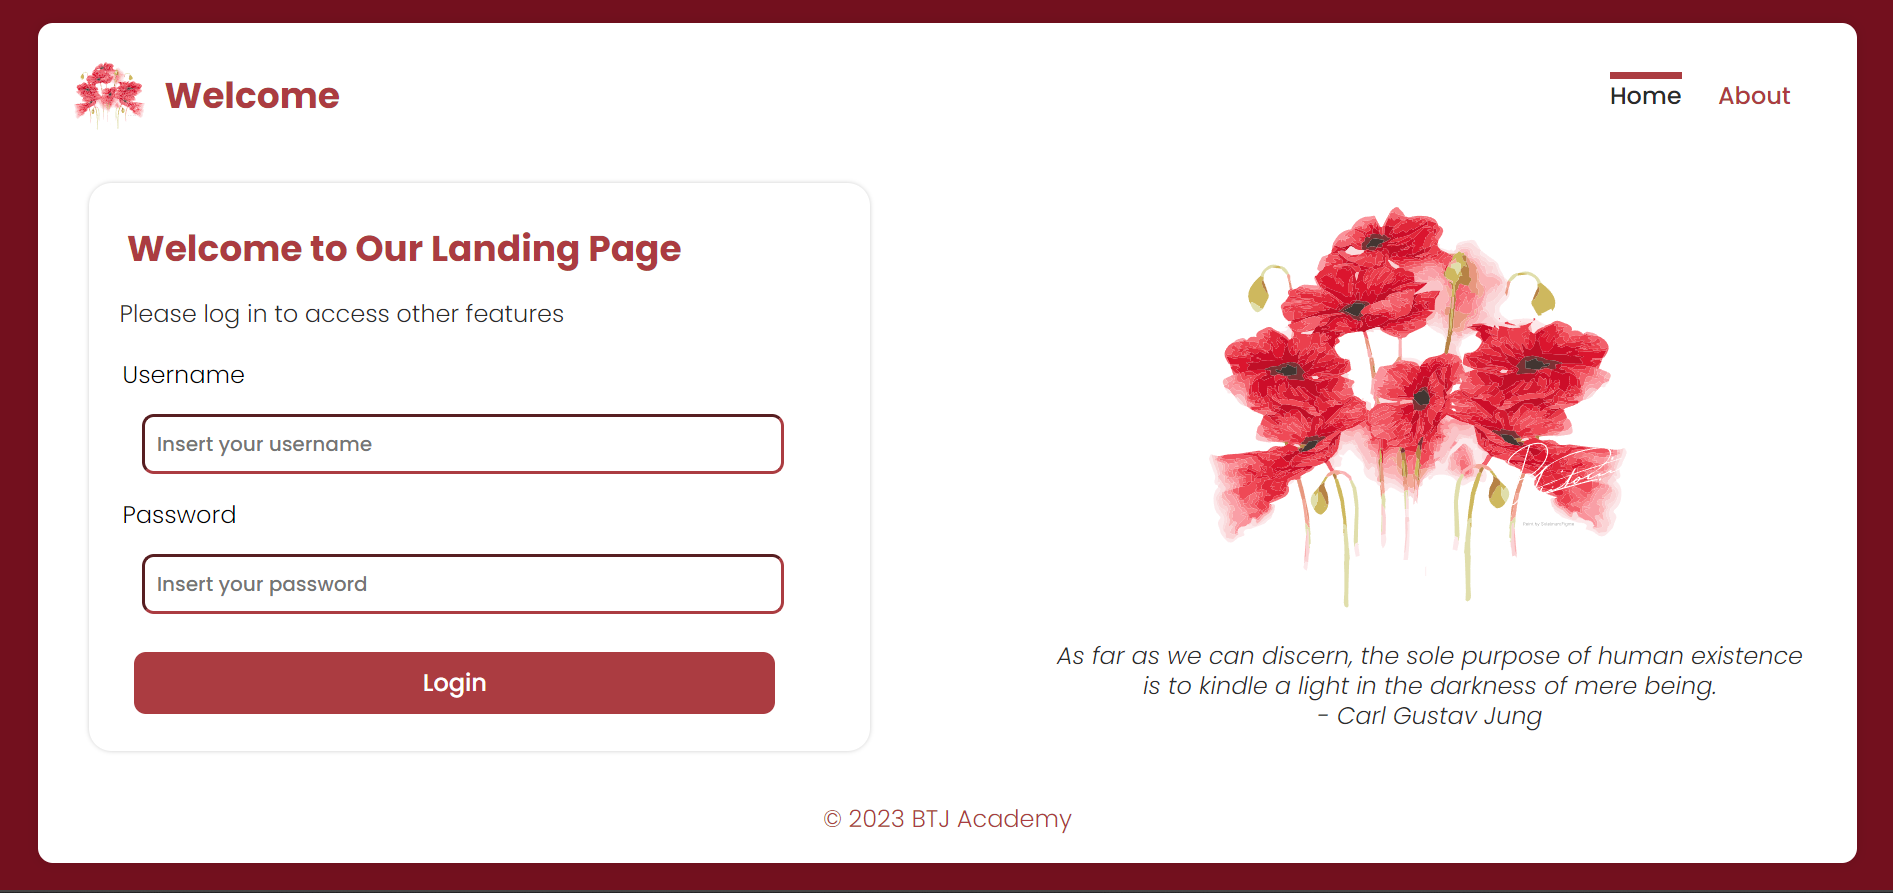
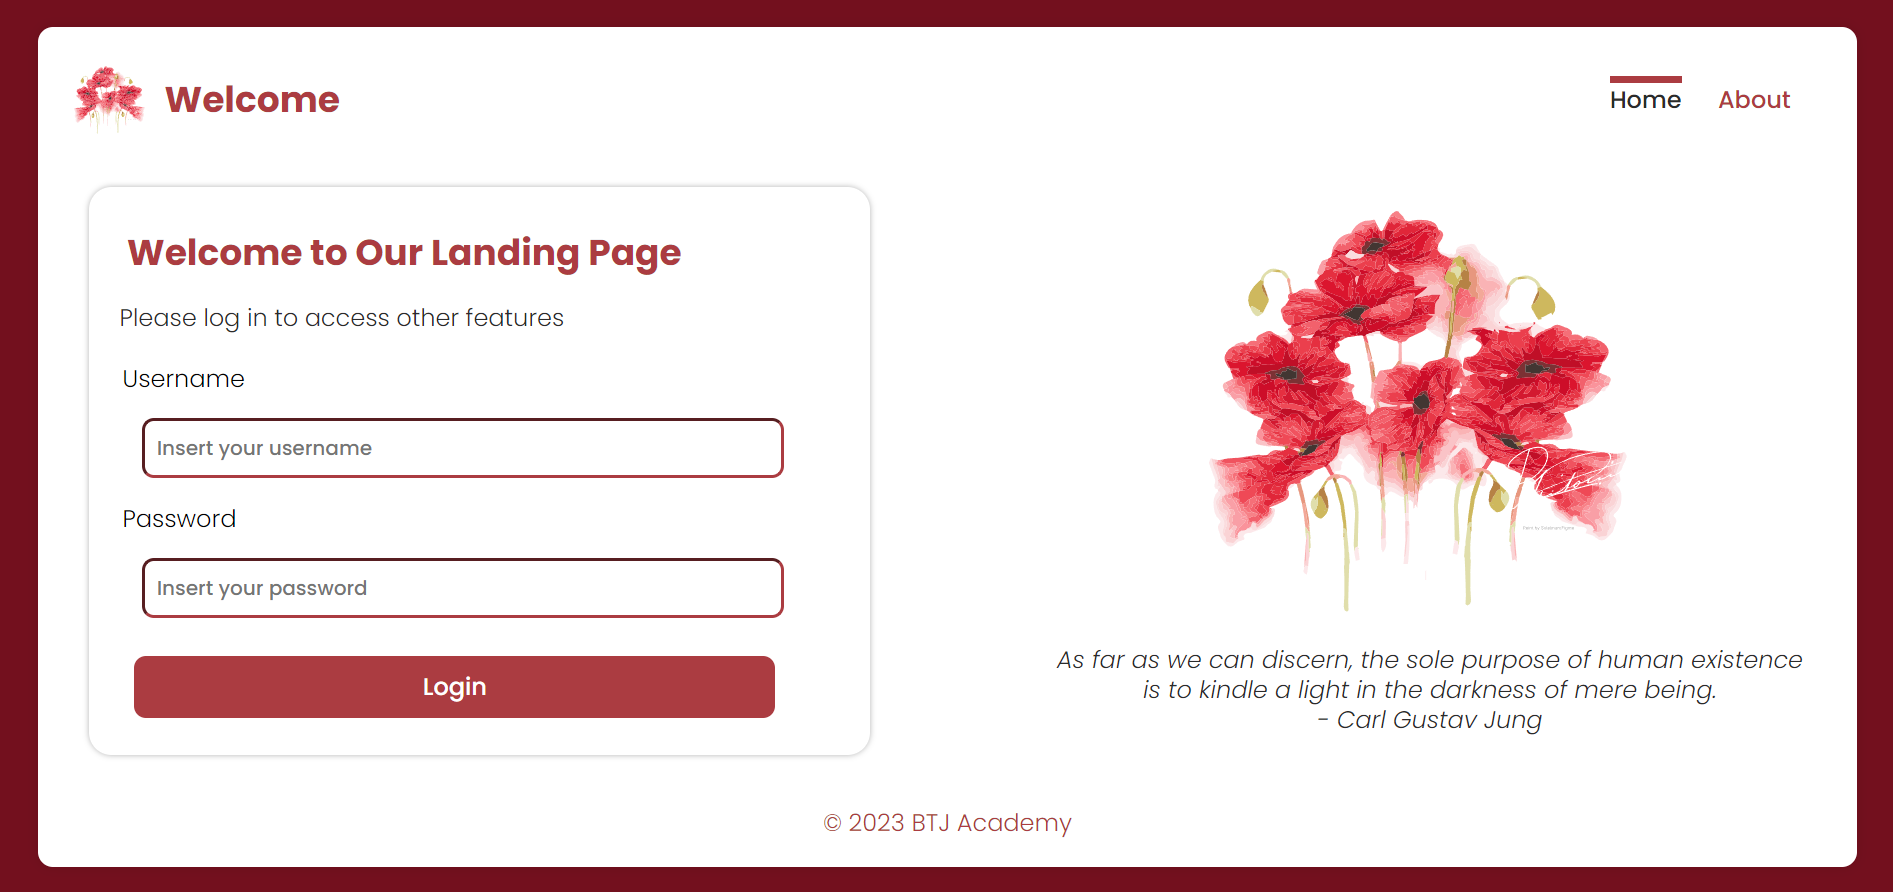
Modify box shadow

diff --git a/src/css/style_landing.css b/src/css/style_landing.css
@@ -163,7 +163,7 @@ body {
     padding: 20px;
     width: 85%;
     border-radius: 15px;
-    box-shadow: 0 0 3px rgba(0, 0, 0, 0.2);
+    box-shadow: 0 0 4px rgba(0, 0, 0, 0.3);
     align-items: center;
     background-color: white;
 }
